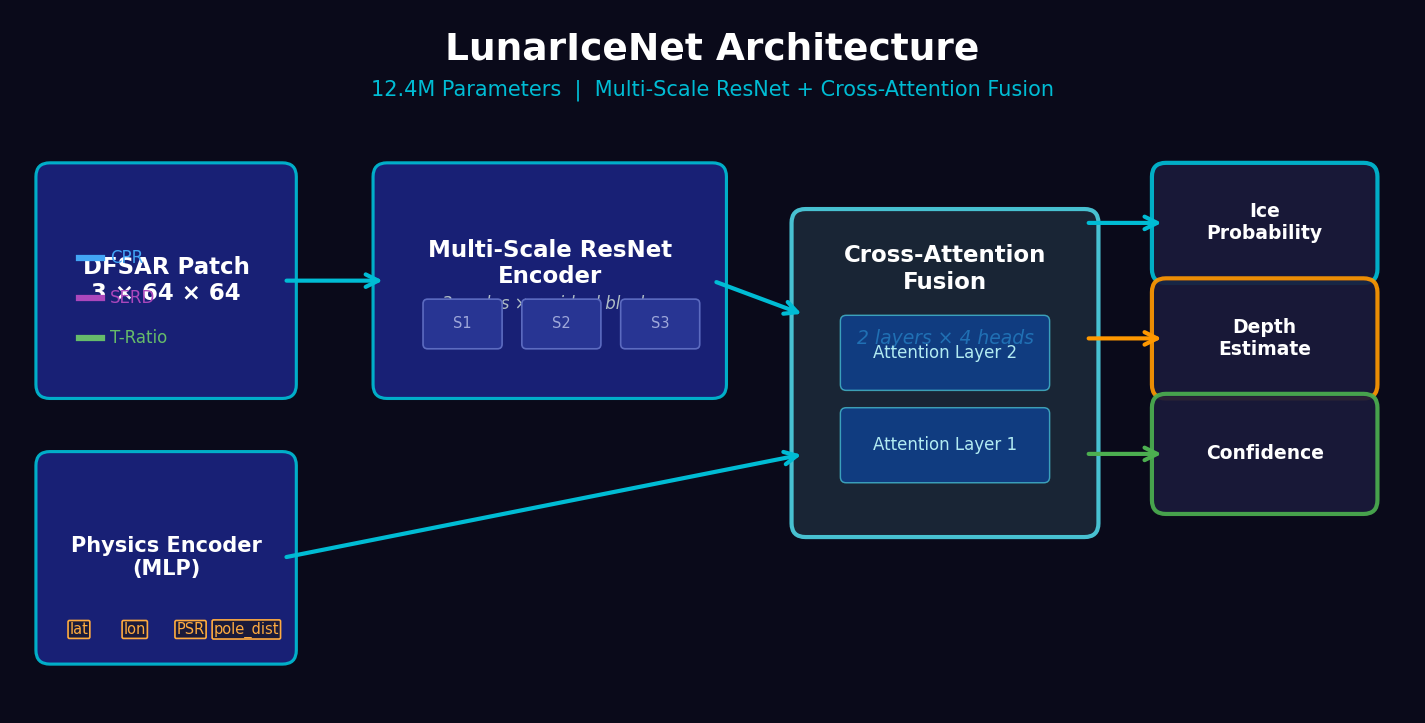
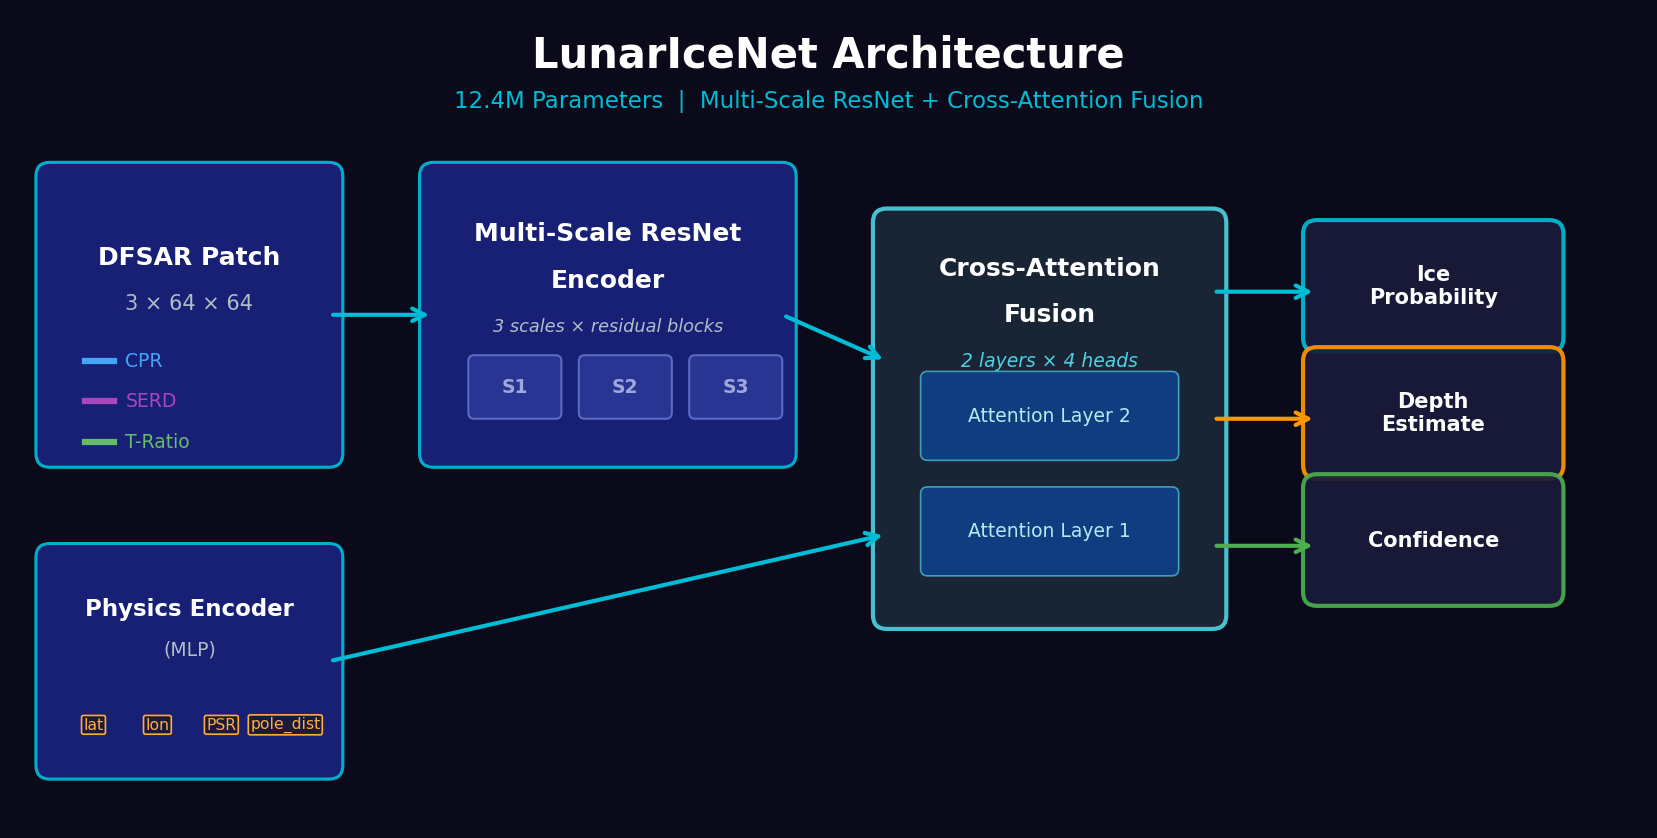
fix: rebuild architecture diagram with proper spacing (no overlaps)

Changed region(s): [[0.0, 0.1826, 0.9881, 0.7607], [0.0, 0.6086, 0.4632, 0.9433], [0.2779, 0.0304, 0.7411, 0.1521]]

diff --git a/presentation/create_assets.py b/presentation/create_assets.py
@@ -118,25 +118,20 @@ def make_pipeline_flow():
 # 2. Architecture Diagram
 # ─────────────────────────────────────────────────────────────
 def make_architecture():
-    fig, ax = plt.subplots(figsize=(12, 6), facecolor=BG)
+    fig, ax = plt.subplots(figsize=(14, 7), facecolor=BG)
     ax.set_facecolor(BG)
-    ax.set_xlim(0, 12)
-    ax.set_ylim(0, 6)
+    ax.set_xlim(0, 14)
+    ax.set_ylim(0, 7)
     ax.axis('off')
 
     def draw_box(x, y, w, h, label, color=BOX_BLUE, edge=CYAN,
-                 fontsize=10, sublabel=None, alpha=0.92, lw=1.5):
+                 fontsize=10, alpha=0.92, lw=1.5):
         box = FancyBboxPatch((x, y), w, h,
                              boxstyle="round,pad=0.12",
                              facecolor=color, edgecolor=edge,
                              linewidth=lw, alpha=alpha, zorder=2)
         ax.add_patch(box)
-        if sublabel:
-            ax.text(x + w/2, y + h/2 + 0.15, label, ha='center', va='center',
-                    fontsize=fontsize, fontweight='bold', color=WHITE, zorder=3)
-            ax.text(x + w/2, y + h/2 - 0.2, sublabel, ha='center', va='center',
-                    fontsize=8, color=LIGHT_GRAY, zorder=3, style='italic')
-        else:
+        if label:
             ax.text(x + w/2, y + h/2, label, ha='center', va='center',
                     fontsize=fontsize, fontweight='bold', color=WHITE, zorder=3,
                     linespacing=1.2)
@@ -149,87 +144,104 @@ def make_architecture():
                     zorder=3)
 
     # Title
-    ax.text(6, 5.7, 'LunarIceNet Architecture', ha='center', va='center',
-            fontsize=18, fontweight='bold', color=WHITE)
-    ax.text(6, 5.35, '12.4M Parameters  |  Multi-Scale ResNet + Cross-Attention Fusion',
-            ha='center', va='center', fontsize=10, color=CYAN,
+    ax.text(7, 6.65, 'LunarIceNet Architecture', ha='center', va='center',
+            fontsize=20, fontweight='bold', color=WHITE)
+    ax.text(7, 6.25, '12.4M Parameters  |  Multi-Scale ResNet + Cross-Attention Fusion',
+            ha='center', va='center', fontsize=11, color=CYAN,
             fontfamily='sans-serif')
 
     # ─── Input: DFSAR Patch ───
-    draw_box(0.3, 2.8, 2.0, 1.8, 'DFSAR Patch\n3 × 64 × 64', fontsize=11)
-    # Channel labels
+    draw_box(0.3, 3.2, 2.4, 2.4, '', fontsize=12)
+    ax.text(1.5, 4.9, 'DFSAR Patch', ha='center', va='center',
+            fontsize=12, fontweight='bold', color=WHITE, zorder=3)
+    ax.text(1.5, 4.5, '3 × 64 × 64', ha='center', va='center',
+            fontsize=10, color=LIGHT_GRAY, zorder=3)
+    # Channel labels — positioned below the title text with clear spacing
     channels = ['CPR', 'SERD', 'T-Ratio']
     colors_ch = ['#42a5f5', '#ab47bc', '#66bb6a']
     for j, (ch, cc) in enumerate(zip(channels, colors_ch)):
-        yy = 3.9 - j * 0.35
-        ax.plot([0.55, 0.75], [yy, yy], color=cc, lw=3, zorder=3)
-        ax.text(0.82, yy, ch, fontsize=8, color=cc, va='center', zorder=3)
+        yy = 4.0 - j * 0.35
+        ax.plot([0.6, 0.85], [yy, yy], color=cc, lw=3, zorder=3)
+        ax.text(0.95, yy, ch, fontsize=9, color=cc, va='center', zorder=3)
 
     # ─── Physics Encoder ───
-    draw_box(0.3, 0.5, 2.0, 1.6, 'Physics Encoder\n(MLP)', fontsize=10)
+    draw_box(0.3, 0.5, 2.4, 1.8, '', fontsize=10)
+    ax.text(1.5, 1.85, 'Physics Encoder', ha='center', va='center',
+            fontsize=11, fontweight='bold', color=WHITE, zorder=3)
+    ax.text(1.5, 1.5, '(MLP)', ha='center', va='center',
+            fontsize=9, color=LIGHT_GRAY, zorder=3)
+    # Physics input labels — row below the title
     phys_inputs = ['lat', 'lon', 'PSR', 'pole_dist']
+    total_w = len(phys_inputs) * 0.55
+    x_start = 1.5 - total_w / 2 + 0.275
     for j, pi in enumerate(phys_inputs):
-        yy = 1.65 - j * 0.28
-        ax.text(0.55 + j * 0.48, 0.68, pi, fontsize=7, color='#ffab40',
+        ax.text(x_start + j * 0.55, 0.85, pi, fontsize=7.5, color='#ffab40',
                 ha='center', va='center', zorder=3,
-                bbox=dict(boxstyle='round,pad=0.1', facecolor='#1a1a3a',
+                bbox=dict(boxstyle='round,pad=0.12', facecolor='#1a1a3a',
                           edgecolor='#ffab40', lw=0.8))
 
     # ─── Multi-Scale ResNet Encoder ───
-    draw_box(3.2, 2.8, 2.8, 1.8, 'Multi-Scale ResNet\nEncoder', fontsize=11,
-             sublabel='3 scales × residual blocks')
+    draw_box(3.6, 3.2, 3.0, 2.4, '', fontsize=12)
+    ax.text(5.1, 5.1, 'Multi-Scale ResNet', ha='center', va='center',
+            fontsize=12, fontweight='bold', color=WHITE, zorder=3)
+    ax.text(5.1, 4.7, 'Encoder', ha='center', va='center',
+            fontsize=12, fontweight='bold', color=WHITE, zorder=3)
+    ax.text(5.1, 4.3, '3 scales × residual blocks', ha='center', va='center',
+            fontsize=8.5, color=LIGHT_GRAY, zorder=3, style='italic')
 
-    # Layer blocks inside
+    # Scale blocks inside — positioned below sublabel
     for j in range(3):
-        bx = 3.55 + j * 0.85
-        by = 3.15
-        small = FancyBboxPatch((bx, by), 0.6, 0.35,
-                               boxstyle="round,pad=0.04",
+        bx = 3.95 + j * 0.95
+        by = 3.55
+        small = FancyBboxPatch((bx, by), 0.7, 0.45,
+                               boxstyle="round,pad=0.05",
                                facecolor='#283593', edgecolor='#5c6bc0',
-                               lw=0.8, zorder=3)
+                               lw=1, zorder=3)
         ax.add_patch(small)
-        ax.text(bx + 0.3, by + 0.175, f'S{j+1}', ha='center', va='center',
-                fontsize=7, color='#9fa8da', zorder=4)
+        ax.text(bx + 0.35, by + 0.225, f'S{j+1}', ha='center', va='center',
+                fontsize=9, color='#9fa8da', fontweight='bold', zorder=4)
 
     # ─── Cross-Attention Fusion ───
-    draw_box(6.8, 1.6, 2.4, 2.6, '', color='#1b2838', edge='#4dd0e1',
+    draw_box(7.5, 1.8, 2.8, 3.4, '', color='#1b2838', edge='#4dd0e1',
              fontsize=10, lw=2)
-    ax.text(8.0, 3.8, 'Cross-Attention\nFusion', ha='center', va='center',
-            fontsize=11, fontweight='bold', color=WHITE, zorder=3)
-    ax.text(8.0, 3.2, '2 layers × 4 heads', ha='center', va='center',
+    ax.text(8.9, 4.8, 'Cross-Attention', ha='center', va='center',
+            fontsize=12, fontweight='bold', color=WHITE, zorder=3)
+    ax.text(8.9, 4.4, 'Fusion', ha='center', va='center',
+            fontsize=12, fontweight='bold', color=WHITE, zorder=3)
+    ax.text(8.9, 4.0, '2 layers × 4 heads', ha='center', va='center',
             fontsize=9, color='#4dd0e1', zorder=3, style='italic')
 
-    # Fusion internals
+    # Fusion internals — two attention layer blocks
     for j in range(2):
-        by = 2.0 + j * 0.8
-        small = FancyBboxPatch((7.15, by), 1.7, 0.55,
-                               boxstyle="round,pad=0.05",
+        by = 2.2 + j * 1.0
+        small = FancyBboxPatch((7.85, by), 2.1, 0.65,
+                               boxstyle="round,pad=0.06",
                                facecolor='#0d47a1', edgecolor='#4dd0e1',
-                               lw=0.7, alpha=0.7, zorder=3)
+                               lw=0.8, alpha=0.7, zorder=3)
         ax.add_patch(small)
-        ax.text(8.0, by + 0.275, f'Attention Layer {j+1}', ha='center',
-                va='center', fontsize=8, color='#b2ebf2', zorder=4)
+        ax.text(8.9, by + 0.325, f'Attention Layer {j+1}', ha='center',
+                va='center', fontsize=9, color='#b2ebf2', zorder=4)
 
     # ─── Output Heads ───
     heads = [
-        ("Ice\nProbability", CYAN, 4.2),
-        ("Depth\nEstimate", '#ff9800', 3.2),
-        ("Confidence", '#4caf50', 2.2),
+        ("Ice\nProbability", CYAN, 4.6),
+        ("Depth\nEstimate", '#ff9800', 3.5),
+        ("Confidence", '#4caf50', 2.4),
     ]
     for label, color, yy in heads:
-        draw_box(9.9, yy - 0.4, 1.7, 0.8, label, color='#1a1a3a',
-                 edge=color, fontsize=9, lw=2)
+        draw_box(11.2, yy - 0.4, 2.0, 0.9, label, color='#1a1a3a',
+                 edge=color, fontsize=10, lw=2)
 
     # ─── Arrows ───
     # DFSAR → ResNet
-    arrow(2.3, 3.7, 3.2, 3.7)
-    # Physics → Fusion
-    arrow(2.3, 1.3, 6.8, 2.2)
+    arrow(2.7, 4.4, 3.6, 4.4)
+    # Physics → Fusion (diagonal)
+    arrow(2.7, 1.4, 7.5, 2.5)
     # ResNet → Fusion
-    arrow(6.0, 3.7, 6.8, 3.4)
+    arrow(6.6, 4.4, 7.5, 4.0)
     # Fusion → heads
     for _, color, yy in heads:
-        arrow(9.2, yy, 9.9, yy, color=color)
+        arrow(10.3, yy, 11.2, yy, color=color)
 
     fig.savefig(os.path.join(ASSETS_DIR, 'architecture_diagram.png'), **SAVE_KW)
     plt.close(fig)